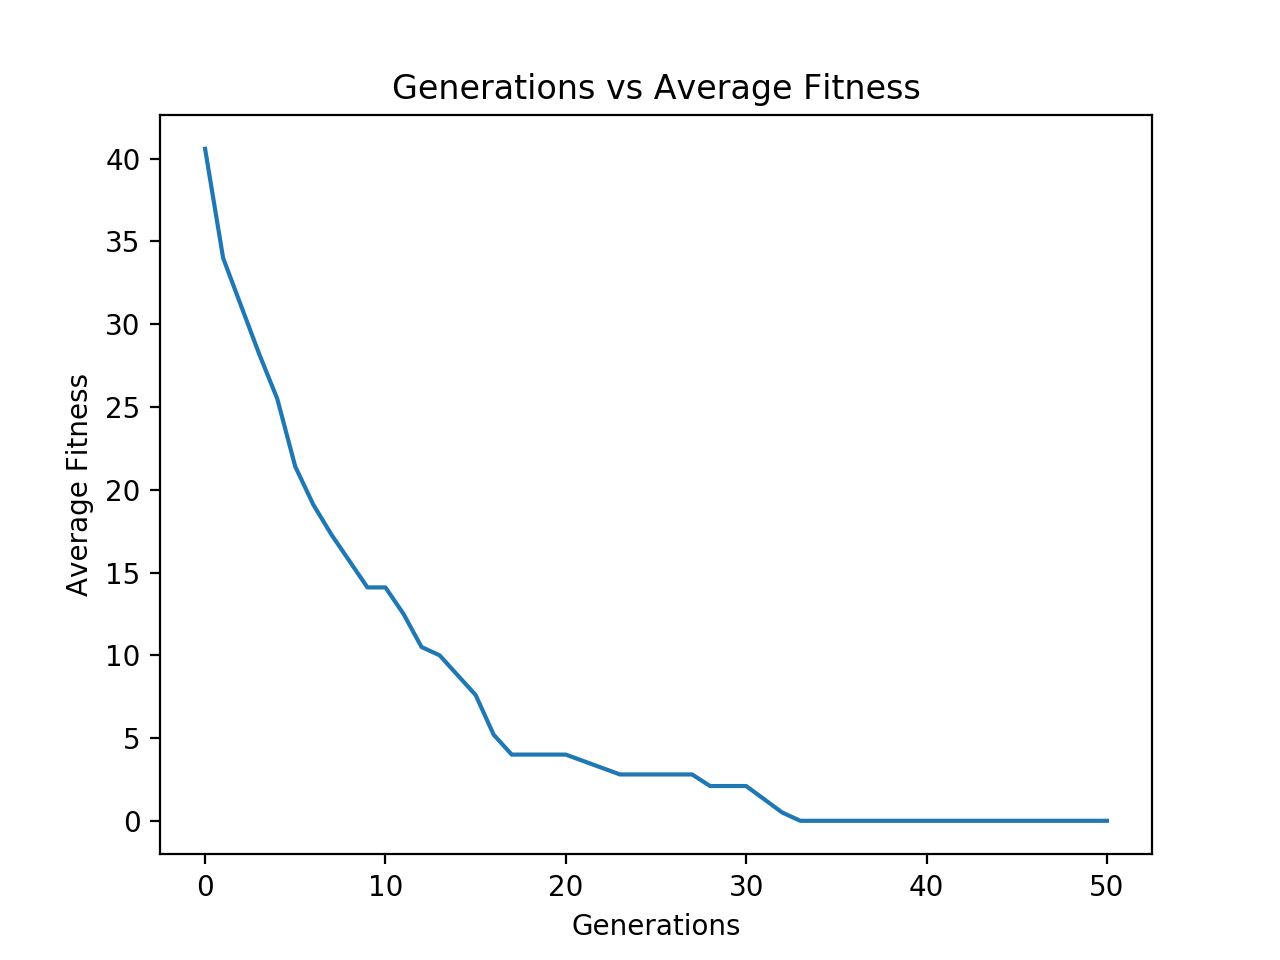
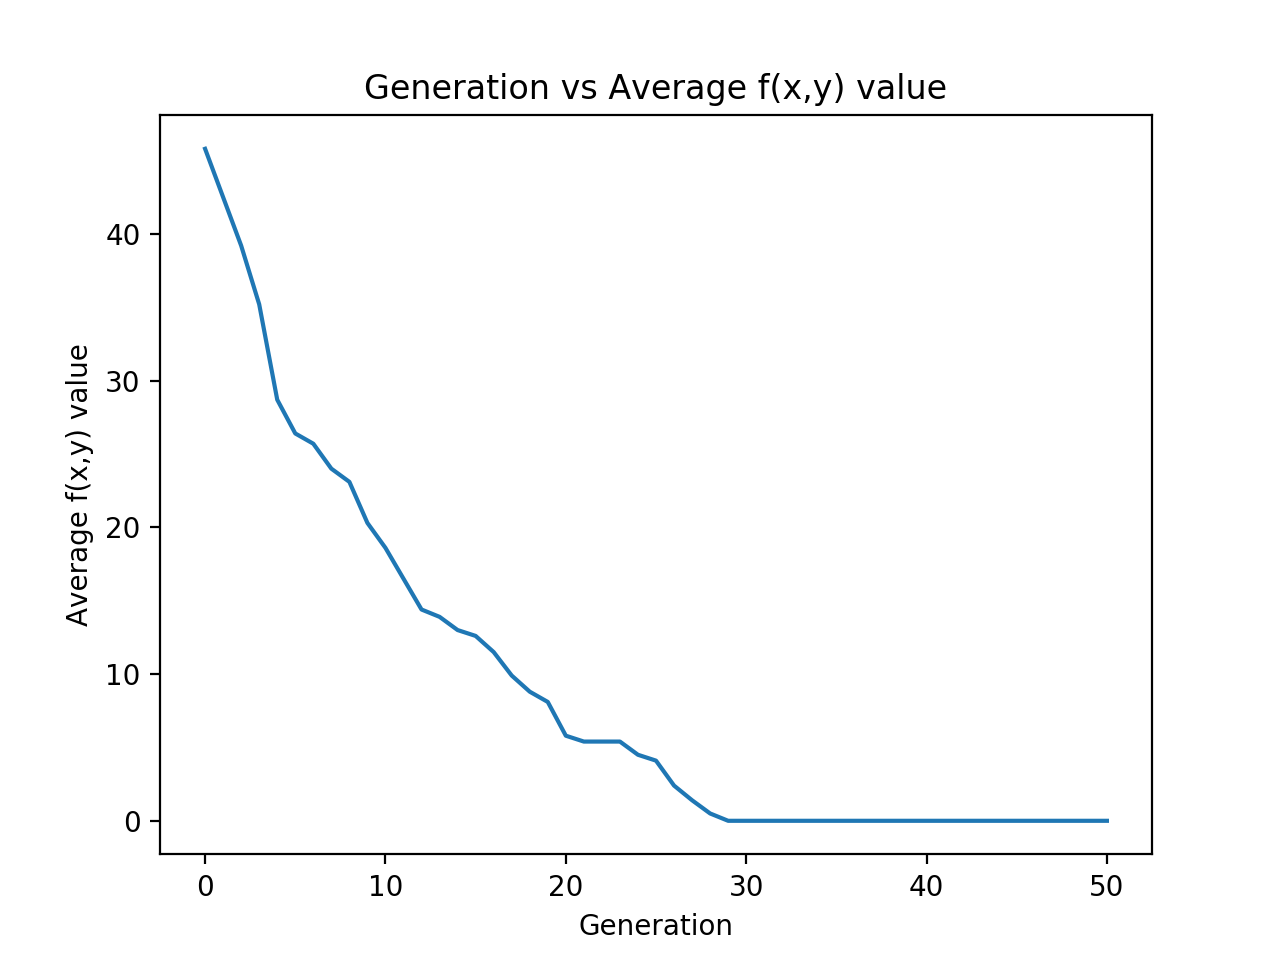
Improve plot axis description

diff --git a/ga-python/main.py b/ga-python/main.py
@@ -37,8 +37,8 @@ if __name__ == "__main__":
     best_chromossome = GeneticUtils.find_best_chromossome(population)
     print(f"Best individual: {GeneticUtils.format_chromossome(best_chromossome)}")
 
-    plt.gca().set_xlabel('Generations')
-    plt.gca().set_ylabel('Average Fitness')
-    plt.gca().set_title('Generations vs Average Fitness')
+    plt.gca().set_xlabel('Generation')
+    plt.gca().set_ylabel('Average f(x,y) value')
+    plt.gca().set_title('Generation vs Average f(x,y) value')
     plt.plot(generation_plot, population_score_plot)
     plt.show()
